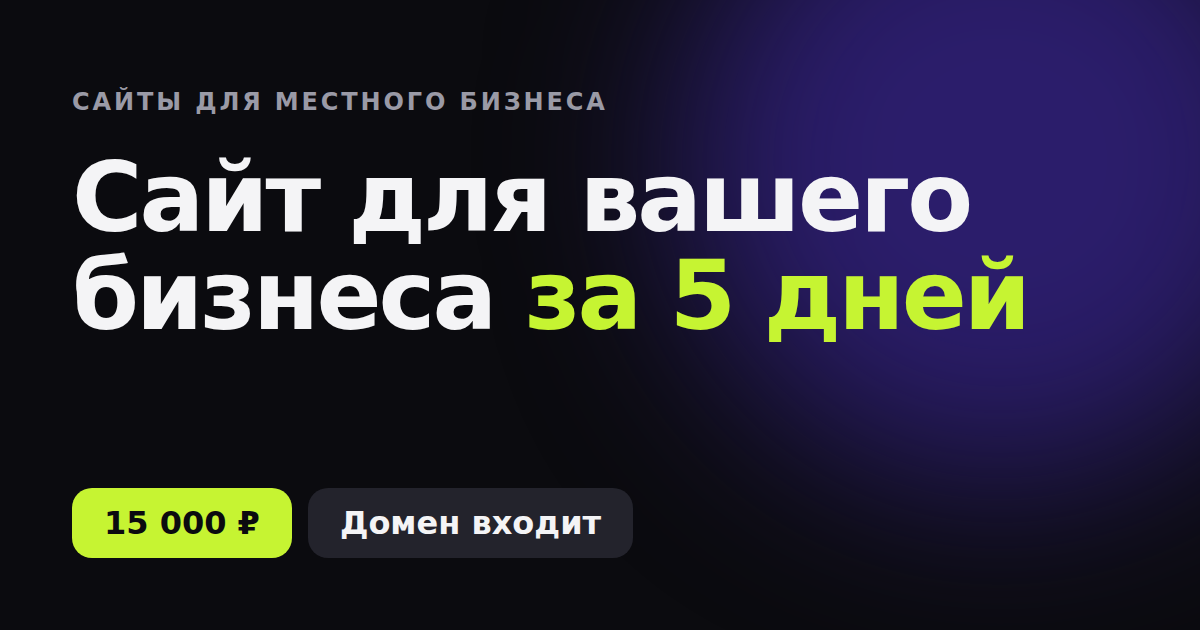
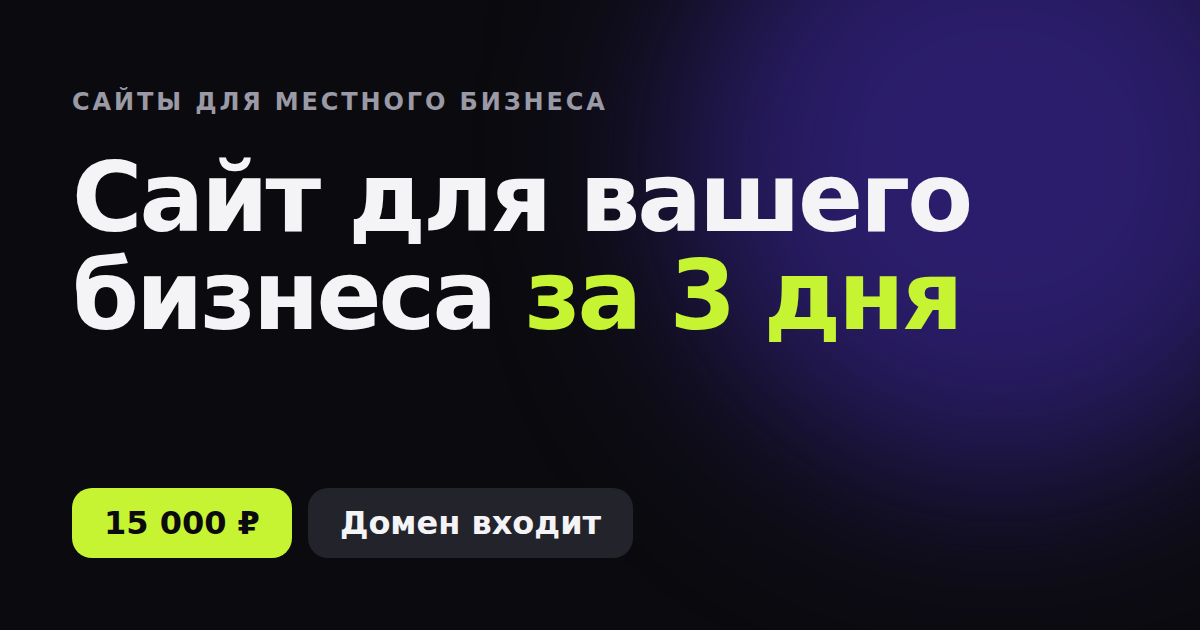
Запуск за 3 дня: таймлайн, макет с печатающимся доменом, список в цене
Claude-Session: https://claude.ai/code/session_015HNm7e6zFr664DpHCK6j9h

Changed region(s): [[0.74, 0.3921, 0.8633, 0.5429], [0.555, 0.4222, 0.6167, 0.4825]]

diff --git a/index.html b/index.html
@@ -3,10 +3,10 @@
 <head>
 <meta charset="utf-8">
 <meta name="viewport" content="width=device-width,initial-scale=1">
-<title>Сайт для бизнеса за 5 дней — Кирилл</title>
-<meta name="description" content="Делаю сайты для местного бизнеса под ключ: 15 000 ₽, домен входит в цену, запуск за 5 дней.">
+<title>Сайт для бизнеса за 3 дня — Кирилл</title>
+<meta name="description" content="Делаю сайты для местного бизнеса под ключ: 15 000 ₽, домен входит в цену, запуск за 3 дня.">
 <meta property="og:type" content="website">
-<meta property="og:title" content="Сайт для бизнеса за 5 дней — 15 000 ₽ с доменом">
+<meta property="og:title" content="Сайт для бизнеса за 3 дня — 15 000 ₽ с доменом">
 <meta property="og:description" content="Барбершопы, салоны, автосервисы, кафе. Под ключ, домен входит в цену.">
 <meta property="og:image" content="https://karif.up.railway.app/og.png">
 <meta name="twitter:card" content="summary_large_image">
@@ -39,7 +39,7 @@ h1 em:after{content:"";display:inline-block;width:.06em;height:.85em;background:
 h2{font-size:clamp(26px,3.4vw,40px);line-height:1.1;letter-spacing:-.035em;font-weight:800}
 h3{font-size:22px;letter-spacing:-.02em;line-height:1.25}
 .hero{min-height:460px;display:flex;flex-direction:column;justify-content:space-between;background:radial-gradient(700px 320px at 95% 0,#2b1d6b,transparent),var(--card)}
-.hero .sub{color:var(--mut);font-size:19px;margin-top:20px;max-width:520px}
+.hero .sub{color:var(--mut);font-size:19px;margin-top:20px;max-width:440px;position:relative;z-index:2}
 .hero .row{display:flex;gap:12px;flex-wrap:wrap;margin-top:32px}
 .lbl{font-size:13px;letter-spacing:.12em;text-transform:uppercase;opacity:.7;font-weight:600;margin-bottom:12px}
 .t p{color:var(--mut);margin-top:10px;font-size:16px}
@@ -58,6 +58,25 @@ h3{font-size:22px;letter-spacing:-.02em;line-height:1.25}
 .phone{position:absolute;right:22px;bottom:22px;z-index:2;width:22%;max-width:190px;aspect-ratio:9/18.6;border:6px solid #1d1d25;border-radius:28px;overflow:hidden;background:#000;box-shadow:0 24px 50px -10px rgba(0,0,0,.8),0 0 0 1px #34343f;transition:transform .4s}
 .shot:hover .phone{transform:translateY(-10px) rotate(-2deg)}
 .phone img{position:absolute;inset:0;width:100%;height:100%;object-fit:cover;object-position:top}
+.tl{list-style:none;margin-top:22px;display:grid;gap:10px}
+.tl li{display:flex;gap:12px;align-items:baseline;padding:10px 14px;border-radius:12px;background:rgba(255,255,255,.12);color:#fff;font-size:15px}
+.tl b{font-size:12px;letter-spacing:.1em;text-transform:uppercase;opacity:.75;min-width:56px}
+.pl{list-style:none;margin-top:14px;display:flex;flex-wrap:wrap;gap:8px}
+.pl li{padding:6px 12px;border-radius:99px;background:rgba(11,11,15,.12);font-size:14px;font-weight:600;color:#0B0B0F}
+.mock{position:absolute;right:-30px;bottom:-40px;width:44%;max-width:420px;transform:rotate(-4deg);transition:transform .5s}
+.hero:hover .mock{transform:rotate(-2deg) translateY(-8px)}
+.win{border:1px solid #3a3a48;border-radius:16px;background:#0E0E14;overflow:hidden;box-shadow:0 30px 60px -20px rgba(0,0,0,.8)}
+.wb{display:flex;align-items:center;gap:6px;padding:10px 12px;border-bottom:1px solid var(--line)}
+.wb i{width:9px;height:9px;border-radius:50%;background:#2A2A34}
+.wu{margin-left:8px;flex:1;height:24px;border-radius:7px;background:rgba(255,255,255,.06);display:flex;align-items:center;padding:0 10px;font-size:12px;color:#C9CBD6;gap:6px;white-space:nowrap;overflow:hidden}
+.wu:before{content:"";width:7px;height:7px;border-radius:50%;background:#2ED47A;flex:none}
+.wu u{text-decoration:none;border-right:2px solid var(--lime);padding-right:2px;animation:bl 1s steps(1) infinite}
+.wp{padding:16px;display:grid;gap:9px}
+.wp div{border-radius:6px;background:#1E1E28}
+.wp .h1{height:16px;width:70%;background:#F4F4F6}.wp .h2{height:16px;width:48%;background:#F4F4F6}
+.wp .bt{height:28px;width:96px;border-radius:9px;background:var(--lime)}
+.wp .g3{display:grid;grid-template-columns:repeat(3,1fr);gap:8px;background:none;height:64px}.wp .g3 span{border-radius:8px;background:linear-gradient(135deg,#232338,#15151F)}
+:focus-visible{outline:2px solid var(--lime);outline-offset:3px;border-radius:10px}
 .stats{display:flex;gap:28px;margin:22px 0 26px;flex-wrap:wrap}
 .stats b{display:block;font-size:34px;font-weight:800;letter-spacing:-.04em;line-height:1;color:var(--lime)}
 .stats span{font-size:13px;color:var(--mut)}
@@ -90,6 +109,7 @@ footer{grid-column:span 12;display:flex;justify-content:space-between;color:var(
 .rv.in{opacity:1;transform:none}
 .rv.in:hover{transform:translateY(-4px)}
 .progress{position:fixed;left:0;top:0;height:3px;width:0;background:var(--lime);z-index:60}
+@media(max-width:1100px){.mock{display:none}}
 @media(max-width:900px){.c8,.c7,.c6,.c5,.c4,.c3{grid-column:span 12}.t{padding:26px}.hero{min-height:380px}.shot{min-height:260px}}
 @media(max-width:640px){
   body{padding:12px}.g{gap:12px}
@@ -116,10 +136,11 @@ footer{grid-column:span 12;display:flex;justify-content:space-between;color:var(
 <section class="t c8 hero rv">
   <div>
     <div class="lbl">Принимаю заказы</div>
-    <h1>Сайт для вашего<em id="word">барбершопа</em>за 5 дней</h1>
+    <h1 style="position:relative;z-index:2">Сайт для вашего<em id="word">барбершопа</em>за 3 дня</h1>
     <p class="sub">Под ключ, с вашим доменом. Клиенты находят вас, видят цены и записываются.</p>
   </div>
-  <div class="row">
+  <div class="mock" aria-hidden="true"><div class="win"><div class="wb"><i></i><i></i><i></i><div class="wu"><u id="typed">barbershop.ru</u></div></div><div class="wp"><div class="h1"></div><div class="h2"></div><div class="bt"></div><div class="g3"><span></span><span></span><span></span></div></div></div></div>
+  <div class="row" style="position:relative;z-index:2">
     <a class="btn" href="https://t.me/K_Sofrin" target="_blank" rel="noopener">Получить сайт →</a>
     <a class="btn d" href="#work">Смотреть работу</a>
   </div>
@@ -127,12 +148,13 @@ footer{grid-column:span 12;display:flex;justify-content:space-between;color:var(
 
 <div class="t c4 lime rv flex" id="price">
   <div><span class="ic"><svg viewBox="0 0 24 24" fill="none" stroke="currentColor" stroke-width="1.8" stroke-linecap="round" stroke-linejoin="round"><path d="M7 4h6a4 4 0 0 1 0 8H7M7 4v16M5 16h9"/></svg></span><div class="lbl">Цена</div></div>
-  <div><div class="big"><span id="cnt">15&nbsp;000</span>₽</div><p>под ключ, домен входит</p></div>
+  <div><div class="big"><span id="cnt">15&nbsp;000</span>₽</div><p>под ключ, без скрытых платежей</p><ul class="pl"><li>Домен</li><li>10 правок</li><li>Запуск</li></ul></div>
 </div>
 
 <div class="t c4 vio rv flex">
   <div><span class="ic"><svg viewBox="0 0 24 24" fill="none" stroke="currentColor" stroke-width="1.8" stroke-linecap="round" stroke-linejoin="round"><circle cx="12" cy="12" r="9"/><path d="M12 7v5l3 2"/></svg></span><div class="lbl">Срок</div></div>
-  <div><div class="big">5 дней</div><p>от согласования макета до запуска</p></div>
+  <div><div class="big">3 дня</div>
+    <ol class="tl"><li><b>День 1</b>дизайн и макет</li><li><b>День 2</b>согласование и вёрстка</li><li><b>День 3</b>домен и запуск</li></ol></div>
 </div>
 
 <div class="t c4 rv">
@@ -205,7 +227,7 @@ footer{grid-column:span 12;display:flex;justify-content:space-between;color:var(
   <h2>Начнём?</h2>
   <p>Напишите мне в Telegram, отвечу с планом и сроками.</p>
   <a class="btn" href="https://t.me/K_Sofrin" target="_blank" rel="noopener">@K_Sofrin</a>
-  <small>15 000 ₽ · домен входит · запуск за 5 дней</small>
+  <small>15 000 ₽ · домен входит · запуск за 3 дня</small>
 </div>
 
 <footer><span>© 2026 Кирилл</span><a href="#">Наверх ↑</a></footer>
@@ -221,6 +243,10 @@ footer{grid-column:span 12;display:flex;justify-content:space-between;color:var(
   addEventListener('scroll',function(){var h=document.documentElement;pr.style.width=(h.scrollTop/(h.scrollHeight-h.clientHeight)*100)+'%'},{passive:true});
   var c=document.getElementById('cnt');
   if(!rm){var co=new IntersectionObserver(function(e){if(!e[0].isIntersecting)return;co.disconnect();var t0=performance.now();(function f(t){var k=Math.min(1,(t-t0)/1200),v=Math.round(15000*(1-Math.pow(1-k,3)));c.textContent=String(v).replace(/\B(?=(\d{3})+(?!\d))/g,' ');if(k<1)requestAnimationFrame(f)})(t0)},{threshold:.5});co.observe(c)}
+  var ty=document.getElementById('typed'),D=['barbershop.ru','salon-krasoty.ru','avtoservis.ru','vash-biznes.ru'],a=0,b=0,dd=false;
+  if(!rm&&ty){(function tk(){var q=D[a];ty.textContent=q.slice(0,b);
+    if(!dd&&b<q.length){b++;setTimeout(tk,95)}else if(!dd){dd=true;setTimeout(tk,1800)}
+    else if(b>0){b--;setTimeout(tk,45)}else{dd=false;a=(a+1)%D.length;setTimeout(tk,300)}})()}
   var w=document.getElementById('word'),L=['барбершопа','салона красоты','автосервиса','кафе','бизнеса'],i=0,j=0,del=false;
   if(!rm){(function tick(){var s=L[i];w.textContent=s.slice(0,j);
     if(!del&&j<s.length){j++;setTimeout(tick,85)}
